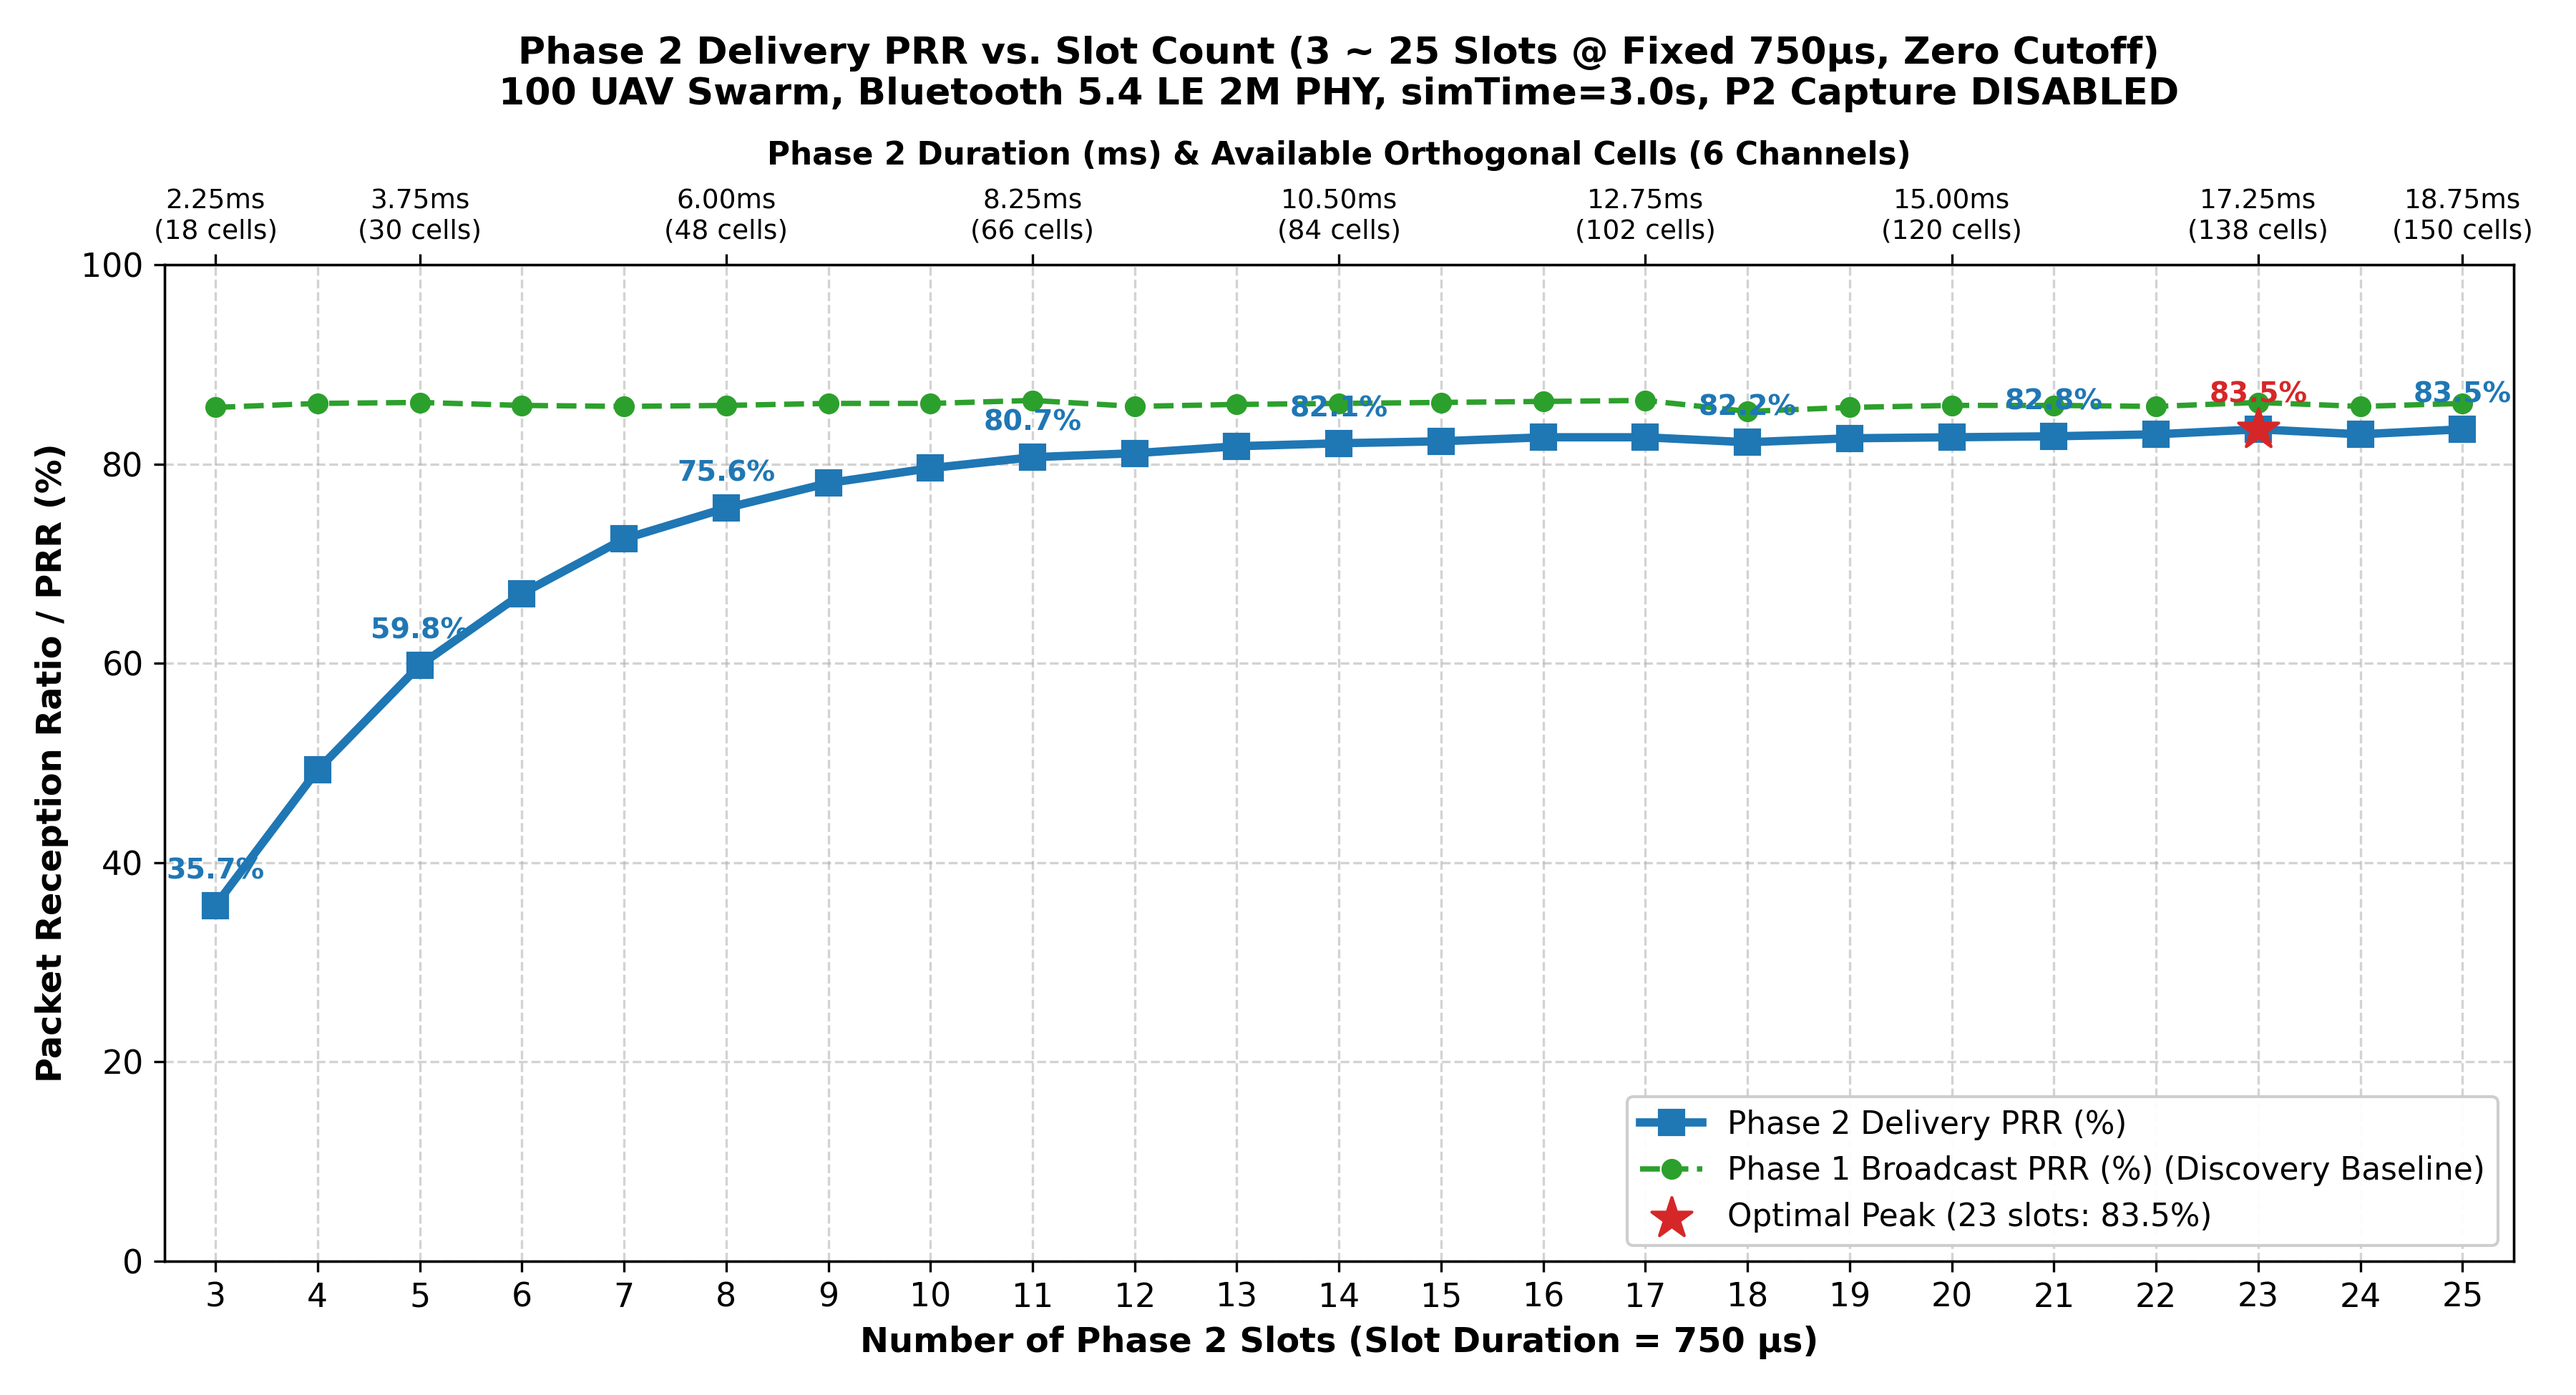
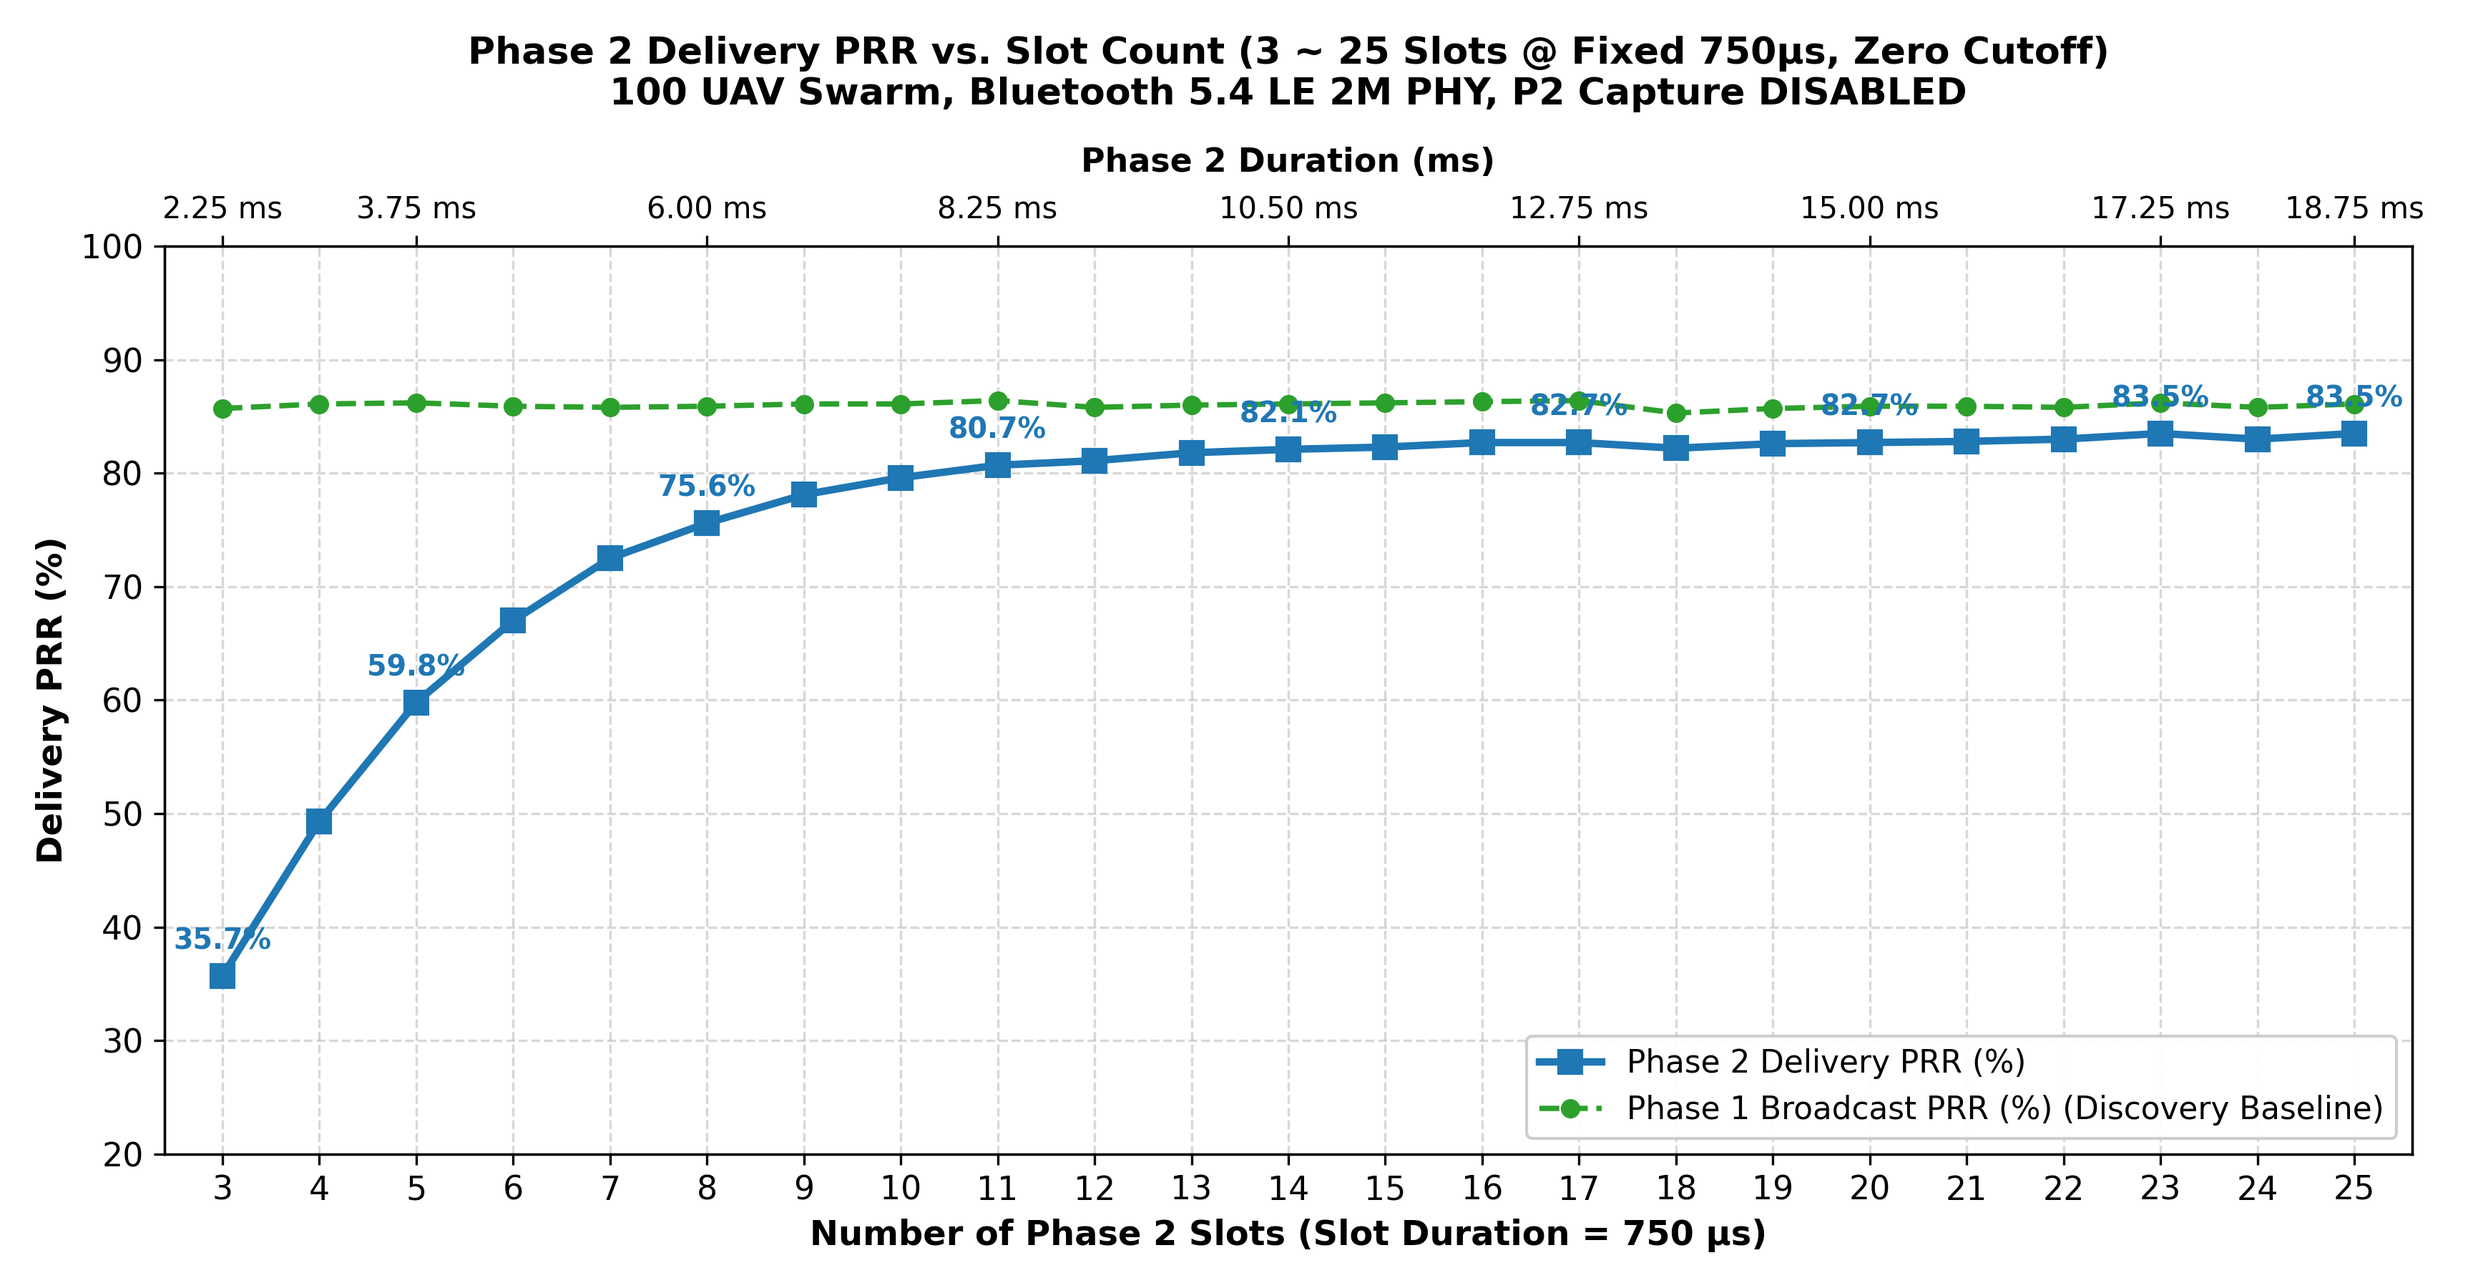
plot: simplify slot scaling plots (remove peak stars, remove cell counts, keep only ms on top axis)

diff --git a/sweep_p2_slots_3_25_at_750us.py b/sweep_p2_slots_3_25_at_750us.py
@@ -279,36 +279,32 @@ fig, ax1 = plt.subplots(figsize=(12, 6.5), dpi=300)
 line1 = ax1.plot(slot_nums, p2_prrs, marker='s', markersize=8, linewidth=2.8, color='#1f77b4', label='Phase 2 Delivery PRR (%)')
 line2 = ax1.plot(slot_nums, p1_prrs, marker='o', markersize=6, linewidth=1.8, color='#2ca02c', linestyle='--', label='Phase 1 Broadcast PRR (%) (Discovery Baseline)')
 
-# Annotate points
-for i, s in enumerate(slot_nums):
-    if s in [3, 5, 8, 11, 14, 18, 21, 25] or i == best_idx:
-        color_txt = '#d62728' if i == best_idx else '#1f77b4'
-        weight_txt = 'bold'
-        ax1.annotate(f"{p2_prrs[i]:.1f}%", (s, p2_prrs[i]), textcoords="offset points", xytext=(0, 9),
-                    ha='center', fontsize=9.5, fontweight=weight_txt, color=color_txt)
-
-# Highlight optimal operating point
-ax1.scatter([results[best_idx]['num_slots']], [best_prr], color='#d62728', s=200, zorder=5, marker='*',
-            label=f"Optimal Peak ({results[best_idx]['num_slots']} slots: {best_prr:.1f}%)")
+# Annotate key data points cleanly (NO star, NO red highlight, uniform clean blue)
+annot_slots = [3, 5, 8, 11, 14, 17, 20, 23, 25]
+for s in annot_slots:
+    if s in slot_nums:
+        idx = slot_nums.index(s)
+        ax1.annotate(f"{p2_prrs[idx]:.1f}%", (s, p2_prrs[idx]), textcoords="offset points", xytext=(0, 9),
+                    ha='center', fontsize=9.5, fontweight='bold', color='#1f77b4')
 
 ax1.set_title(f'Phase 2 Delivery PRR vs. Slot Count (3 ~ 25 Slots @ Fixed 750µs, Zero Cutoff)\n'
-              f'100 UAV Swarm, Bluetooth 5.4 LE 2M PHY, simTime={sim_time:.1f}s, P2 Capture DISABLED', fontsize=12.5, fontweight='bold', pad=12)
+              f'100 UAV Swarm, Bluetooth 5.4 LE 2M PHY, simTime={sim_time:.1f}s, P2 Capture DISABLED', fontsize=12.5, fontweight='bold', pad=14)
 ax1.set_xlabel('Number of Phase 2 Slots (Slot Duration = 750 µs)', fontsize=11.5, fontweight='bold')
-ax1.set_ylabel('Packet Reception Ratio / PRR (%)', fontsize=11.5, fontweight='bold')
+ax1.set_ylabel('Delivery PRR (%)', fontsize=11.5, fontweight='bold')
 ax1.set_xticks(slot_nums)
-ax1.set_xlim(2.5, 25.5)
-ax1.set_ylim(0, 100)
-ax1.grid(True, linestyle='--', alpha=0.55)
+ax1.set_xlim(2.4, 25.6)
+ax1.set_ylim(20, 100)
+ax1.grid(True, linestyle='--', alpha=0.5)
 
-# Secondary top X-axis showing Phase 2 Duration and Available Cells
+# Secondary top X-axis showing ONLY Phase 2 Duration (e.g. 2.25 ms, 6.00 ms) - NO cells
 ax2 = ax1.twiny()
 ax2.set_xlim(ax1.get_xlim())
 tick_slots = [3, 5, 8, 11, 14, 17, 20, 23, 25]
 ax2.set_xticks(tick_slots)
-ax2.set_xticklabels([f"{s * 750 / 1000.0:.2f}ms\n({s * num_channels} cells)" for s in tick_slots], fontsize=9)
-ax2.set_xlabel('Phase 2 Duration (ms) & Available Orthogonal Cells (6 Channels)', fontsize=10.5, fontweight='bold', labelpad=8)
+ax2.set_xticklabels([f"{s * slot_us / 1000.0:.2f} ms" for s in tick_slots], fontsize=10, fontweight='medium')
+ax2.set_xlabel('Phase 2 Duration (ms)', fontsize=11, fontweight='bold', labelpad=8)
 
-lines = line1 + line2 + [ax1.get_legend_handles_labels()[0][-1]]
+lines = line1 + line2
 labels = [l.get_label() for l in lines]
 ax1.legend(lines, labels, loc='lower right', fontsize=10.5, framealpha=0.95)
 

diff --git a/plot_simple_p2_slots_3_25.py b/plot_simple_p2_slots_3_25.py
@@ -1,0 +1,69 @@
+#!/usr/bin/env python3
+"""
+Simple & Clean Plot Generator for Phase 2 Slot Count Scaling (3 ~ 25 Slots @ 750µs):
+- No peak star marker (*)
+- No cell counts on top axis: only Phase 2 duration (e.g. 2.25 ms, 6.00 ms)
+- Clean, publication/slide-ready aesthetic
+"""
+
+import os
+import matplotlib
+matplotlib.use('Agg')
+import matplotlib.pyplot as plt
+
+PROJECT_DIR = os.path.dirname(os.path.abspath(__file__))
+ARTIFACT_DIR = "/Users/hbxuan/.gemini/antigravity/brain/580f4ce3-fbf9-4506-9bc7-86b7ef48b448"
+
+# Data from simulation
+slot_nums = list(range(3, 26))
+p2_durations_ms = [s * 0.75 for s in slot_nums]
+p1_prrs = [85.7, 86.1, 86.2, 85.9, 85.8, 85.9, 86.1, 86.1, 86.4, 85.8, 86.0, 86.1, 86.2, 86.3, 86.4, 85.3, 85.7, 85.9, 85.9, 85.8, 86.2, 85.8, 86.1]
+p2_prrs = [35.7, 49.3, 59.8, 67.0, 72.5, 75.6, 78.1, 79.6, 80.7, 81.1, 81.8, 82.1, 82.3, 82.7, 82.7, 82.2, 82.6, 82.7, 82.8, 83.0, 83.5, 83.0, 83.5]
+
+plt.rcParams['font.family'] = 'DejaVu Sans'
+plt.rcParams['font.size'] = 11
+
+fig, ax1 = plt.subplots(figsize=(11.5, 6), dpi=300)
+
+# Plot P2 PRR (Main Curve) and P1 PRR (Baseline Reference)
+line1 = ax1.plot(slot_nums, p2_prrs, marker='s', markersize=7.5, linewidth=2.5, color='#1f77b4', label='Phase 2 Delivery PRR (%)')
+line2 = ax1.plot(slot_nums, p1_prrs, marker='o', markersize=5.5, linewidth=1.8, color='#2ca02c', linestyle='--', label='Phase 1 Broadcast PRR (%) (Discovery Baseline)')
+
+# Annotate key data points cleanly (NO star, NO red highlight, uniform clean blue)
+annot_slots = [3, 5, 8, 11, 14, 17, 20, 23, 25]
+for s in annot_slots:
+    idx = slot_nums.index(s)
+    p = p2_prrs[idx]
+    ax1.annotate(f"{p:.1f}%", (s, p), textcoords="offset points", xytext=(0, 9),
+                 ha='center', fontsize=9.5, fontweight='bold', color='#1f77b4')
+
+ax1.set_title('Phase 2 Delivery PRR vs. Slot Count (3 ~ 25 Slots @ Fixed 750µs, Zero Cutoff)\n'
+              '100 UAV Swarm, Bluetooth 5.4 LE 2M PHY, P2 Capture DISABLED', fontsize=12.5, fontweight='bold', pad=14)
+ax1.set_xlabel('Number of Phase 2 Slots (Slot Duration = 750 µs)', fontsize=11.5, fontweight='bold')
+ax1.set_ylabel('Delivery PRR (%)', fontsize=11.5, fontweight='bold')
+ax1.set_xticks(slot_nums)
+ax1.set_xlim(2.4, 25.6)
+ax1.set_ylim(20, 100)
+ax1.grid(True, linestyle='--', alpha=0.5)
+
+# Secondary top X-axis showing ONLY Phase 2 Duration (e.g. 2.25 ms, 6.00 ms) - NO cells
+ax2 = ax1.twiny()
+ax2.set_xlim(ax1.get_xlim())
+tick_slots = [3, 5, 8, 11, 14, 17, 20, 23, 25]
+ax2.set_xticks(tick_slots)
+ax2.set_xticklabels([f"{s * 0.75:.2f} ms" for s in tick_slots], fontsize=10, fontweight='medium')
+ax2.set_xlabel('Phase 2 Duration (ms)', fontsize=11, fontweight='bold', labelpad=8)
+
+lines = line1 + line2
+labels = [l.get_label() for l in lines]
+ax1.legend(lines, labels, loc='lower right', fontsize=10.5, framealpha=0.95)
+
+plt.tight_layout()
+
+# Save image
+out_path = os.path.join(PROJECT_DIR, "p2_slots_3_25_at_750us_prr.png")
+plt.savefig(out_path)
+if os.path.exists(ARTIFACT_DIR):
+    plt.savefig(os.path.join(ARTIFACT_DIR, "p2_slots_3_25_at_750us_prr.png"))
+plt.close()
+print(f"✅ Saved clean 750us slot scaling plot to {out_path}")

diff --git a/sweep_p2_slots_3_25_at_720us.py b/sweep_p2_slots_3_25_at_720us.py
@@ -274,36 +274,32 @@ fig, ax1 = plt.subplots(figsize=(12, 6.5), dpi=300)
 line1 = ax1.plot(slot_nums, p2_prrs, marker='s', markersize=8, linewidth=2.8, color='#1f77b4', label='Phase 2 Delivery PRR (%)')
 line2 = ax1.plot(slot_nums, p1_prrs, marker='o', markersize=6, linewidth=1.8, color='#2ca02c', linestyle='--', label='Phase 1 Broadcast PRR (%) (Ceiling)')
 
-# Annotate points
-for i, s in enumerate(slot_nums):
-    if s in [3, 5, 8, 11, 14, 18, 21, 25] or i == best_idx:
-        color_txt = '#d62728' if i == best_idx else '#1f77b4'
-        weight_txt = 'bold'
-        ax1.annotate(f"{p2_prrs[i]:.1f}%", (s, p2_prrs[i]), textcoords="offset points", xytext=(0, 9),
-                    ha='center', fontsize=9.5, fontweight=weight_txt, color=color_txt)
-
-# Highlight optimal operating point
-ax1.scatter([results[best_idx]['num_slots']], [best_prr], color='#d62728', s=200, zorder=5, marker='*',
-            label=f"Optimal Peak ({results[best_idx]['num_slots']} slots: {best_prr:.1f}%)")
+# Annotate key data points cleanly (NO star, NO red highlight, uniform clean blue)
+annot_slots = [3, 5, 8, 11, 14, 17, 20, 23, 25]
+for s in annot_slots:
+    if s in slot_nums:
+        idx = slot_nums.index(s)
+        ax1.annotate(f"{p2_prrs[idx]:.1f}%", (s, p2_prrs[idx]), textcoords="offset points", xytext=(0, 9),
+                    ha='center', fontsize=9.5, fontweight='bold', color='#1f77b4')
 
 ax1.set_title('Phase 2 Delivery PRR vs. Slot Count (3 ~ 25 Slots @ Fixed 720µs, 6 Channels)\n'
-              '100 UAV Swarm, Bluetooth 5.4 LE 2M PHY, Phase 2 Capture DISABLED', fontsize=12.5, fontweight='bold', pad=12)
+              '100 UAV Swarm, Bluetooth 5.4 LE 2M PHY, Phase 2 Capture DISABLED', fontsize=12.5, fontweight='bold', pad=14)
 ax1.set_xlabel('Number of Phase 2 Slots (Slot Duration = 720 µs)', fontsize=11.5, fontweight='bold')
-ax1.set_ylabel('Packet Reception Ratio / PRR (%)', fontsize=11.5, fontweight='bold')
+ax1.set_ylabel('Delivery PRR (%)', fontsize=11.5, fontweight='bold')
 ax1.set_xticks(slot_nums)
-ax1.set_xlim(2.5, 25.5)
-ax1.set_ylim(0, 100)
-ax1.grid(True, linestyle='--', alpha=0.55)
+ax1.set_xlim(2.4, 25.6)
+ax1.set_ylim(20, 100)
+ax1.grid(True, linestyle='--', alpha=0.5)
 
-# Secondary top X-axis showing Phase 2 Duration and Available Cells
+# Secondary top X-axis showing ONLY Phase 2 Duration (e.g. 2.16 ms, 5.76 ms) - NO cells
 ax2 = ax1.twiny()
 ax2.set_xlim(ax1.get_xlim())
 tick_slots = [3, 5, 8, 11, 14, 17, 20, 23, 25]
 ax2.set_xticks(tick_slots)
-ax2.set_xticklabels([f"{s * 720 / 1000.0:.2f}ms\n({s * num_channels} cells)" for s in tick_slots], fontsize=9)
-ax2.set_xlabel('Phase 2 Duration (ms) & Available Orthogonal Cells (6 Channels)', fontsize=10.5, fontweight='bold', labelpad=8)
+ax2.set_xticklabels([f"{s * slot_us / 1000.0:.2f} ms" for s in tick_slots], fontsize=10, fontweight='medium')
+ax2.set_xlabel('Phase 2 Duration (ms)', fontsize=11, fontweight='bold', labelpad=8)
 
-lines = line1 + line2 + [ax1.get_legend_handles_labels()[0][-1]]
+lines = line1 + line2
 labels = [l.get_label() for l in lines]
 ax1.legend(lines, labels, loc='lower right', fontsize=10.5, framealpha=0.95)
 
